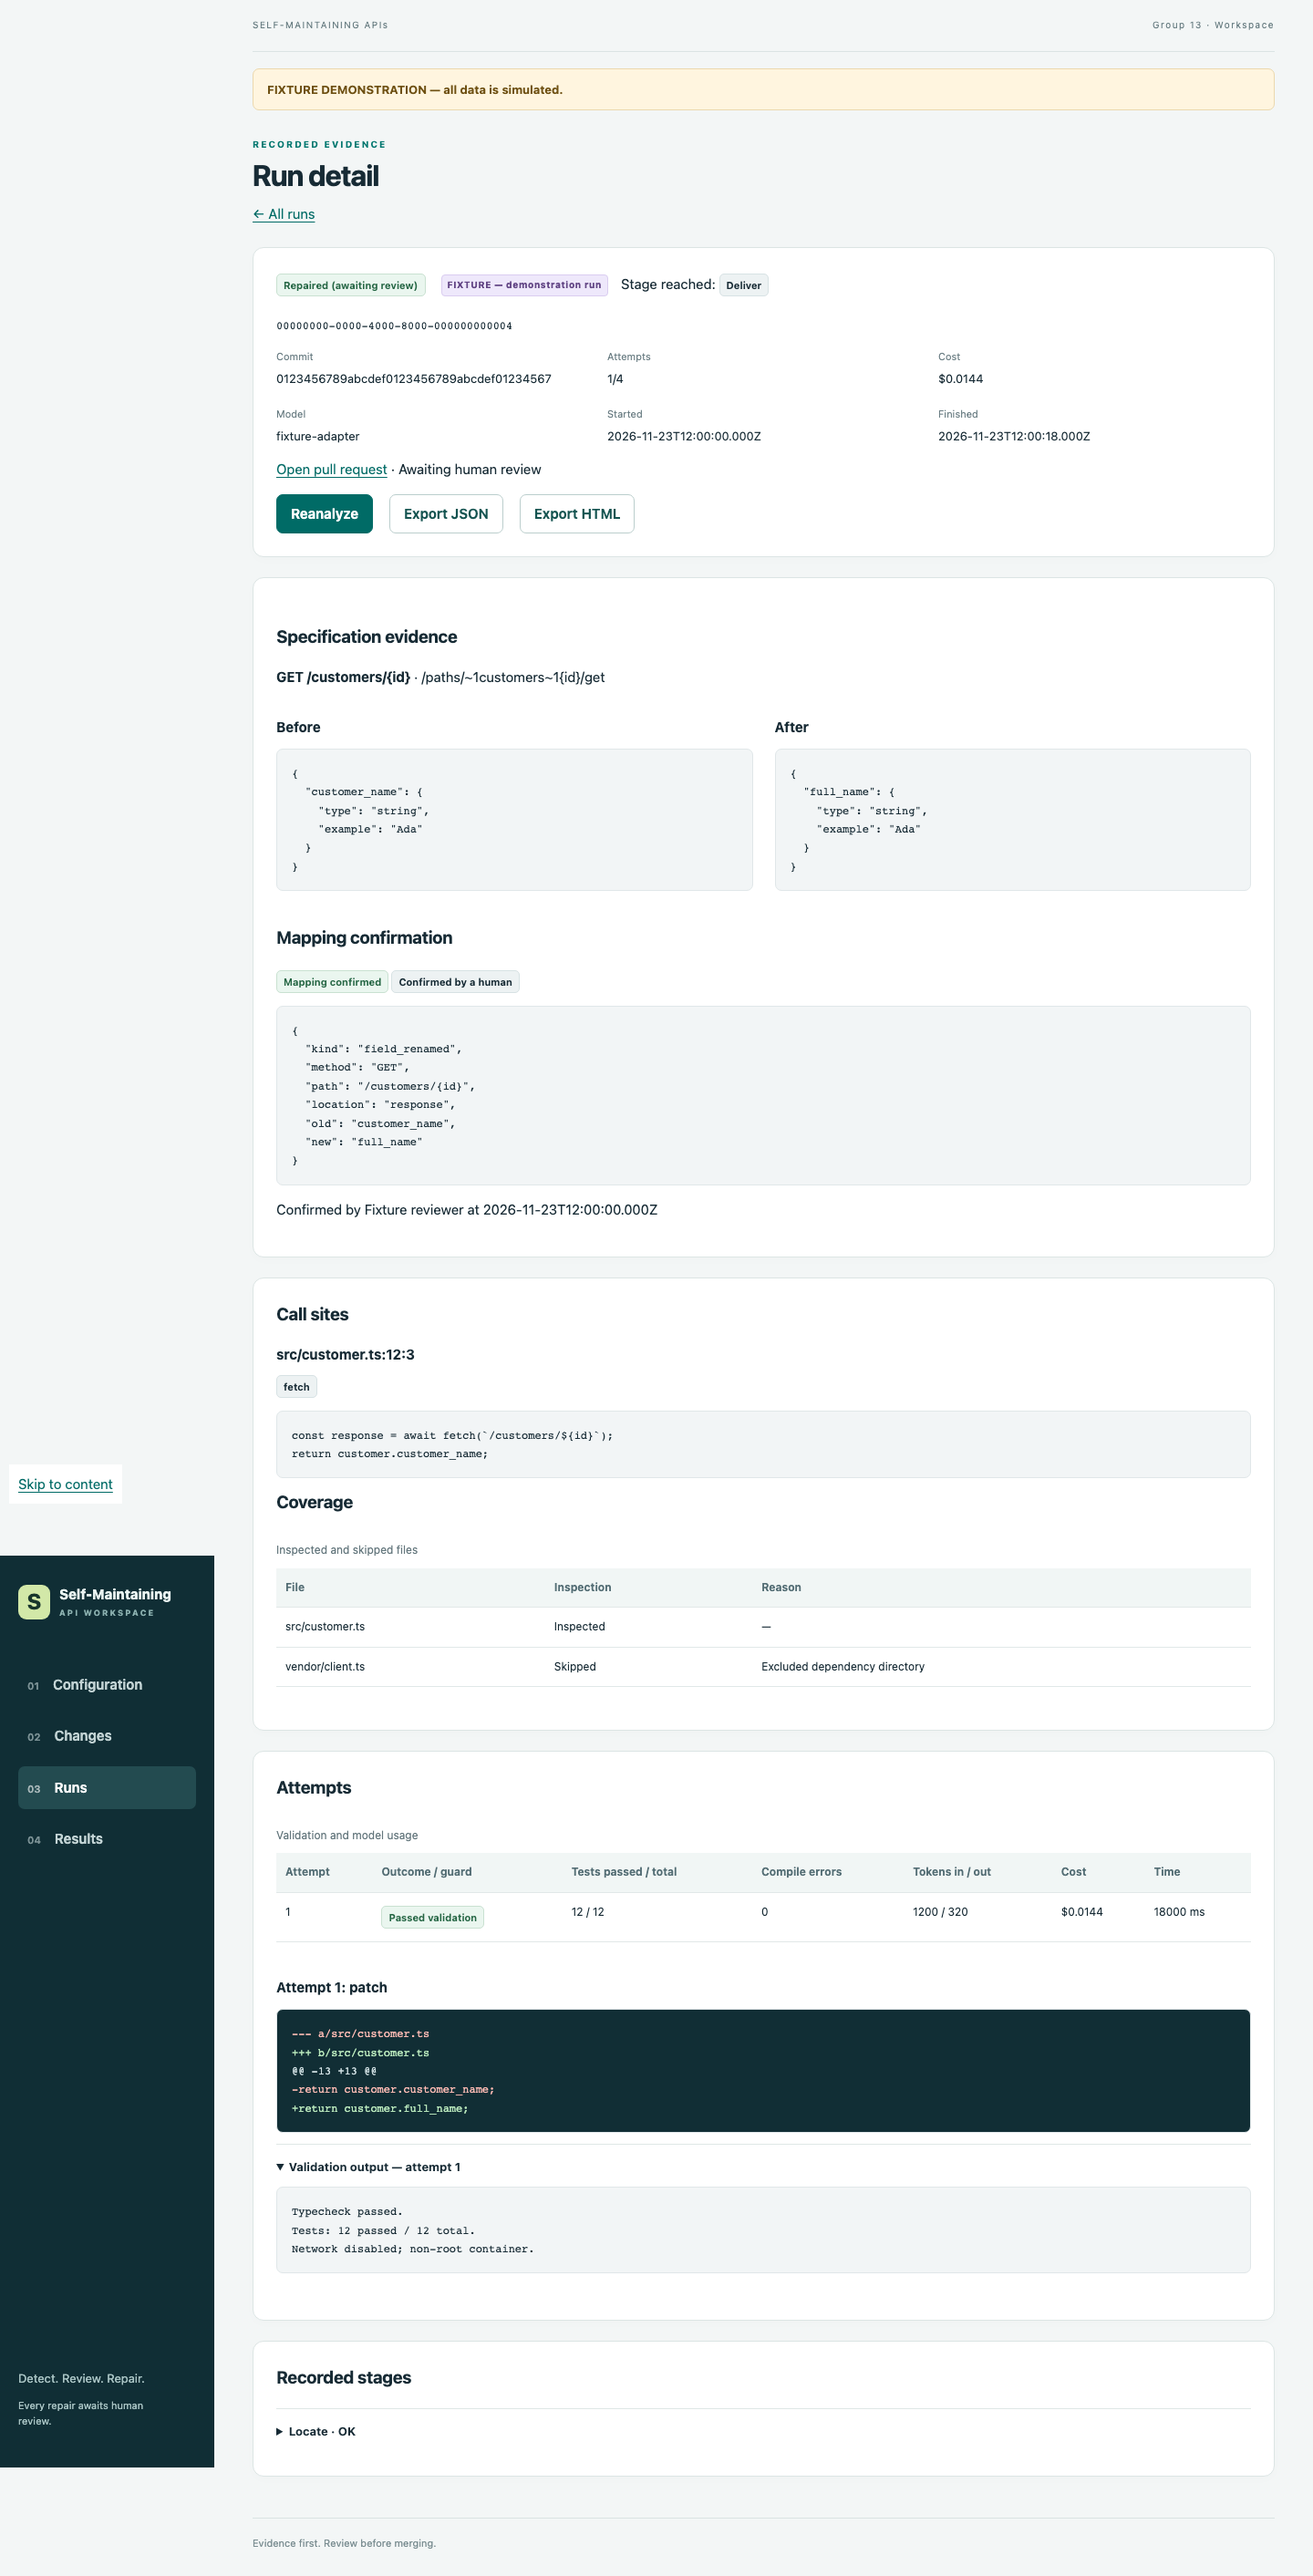
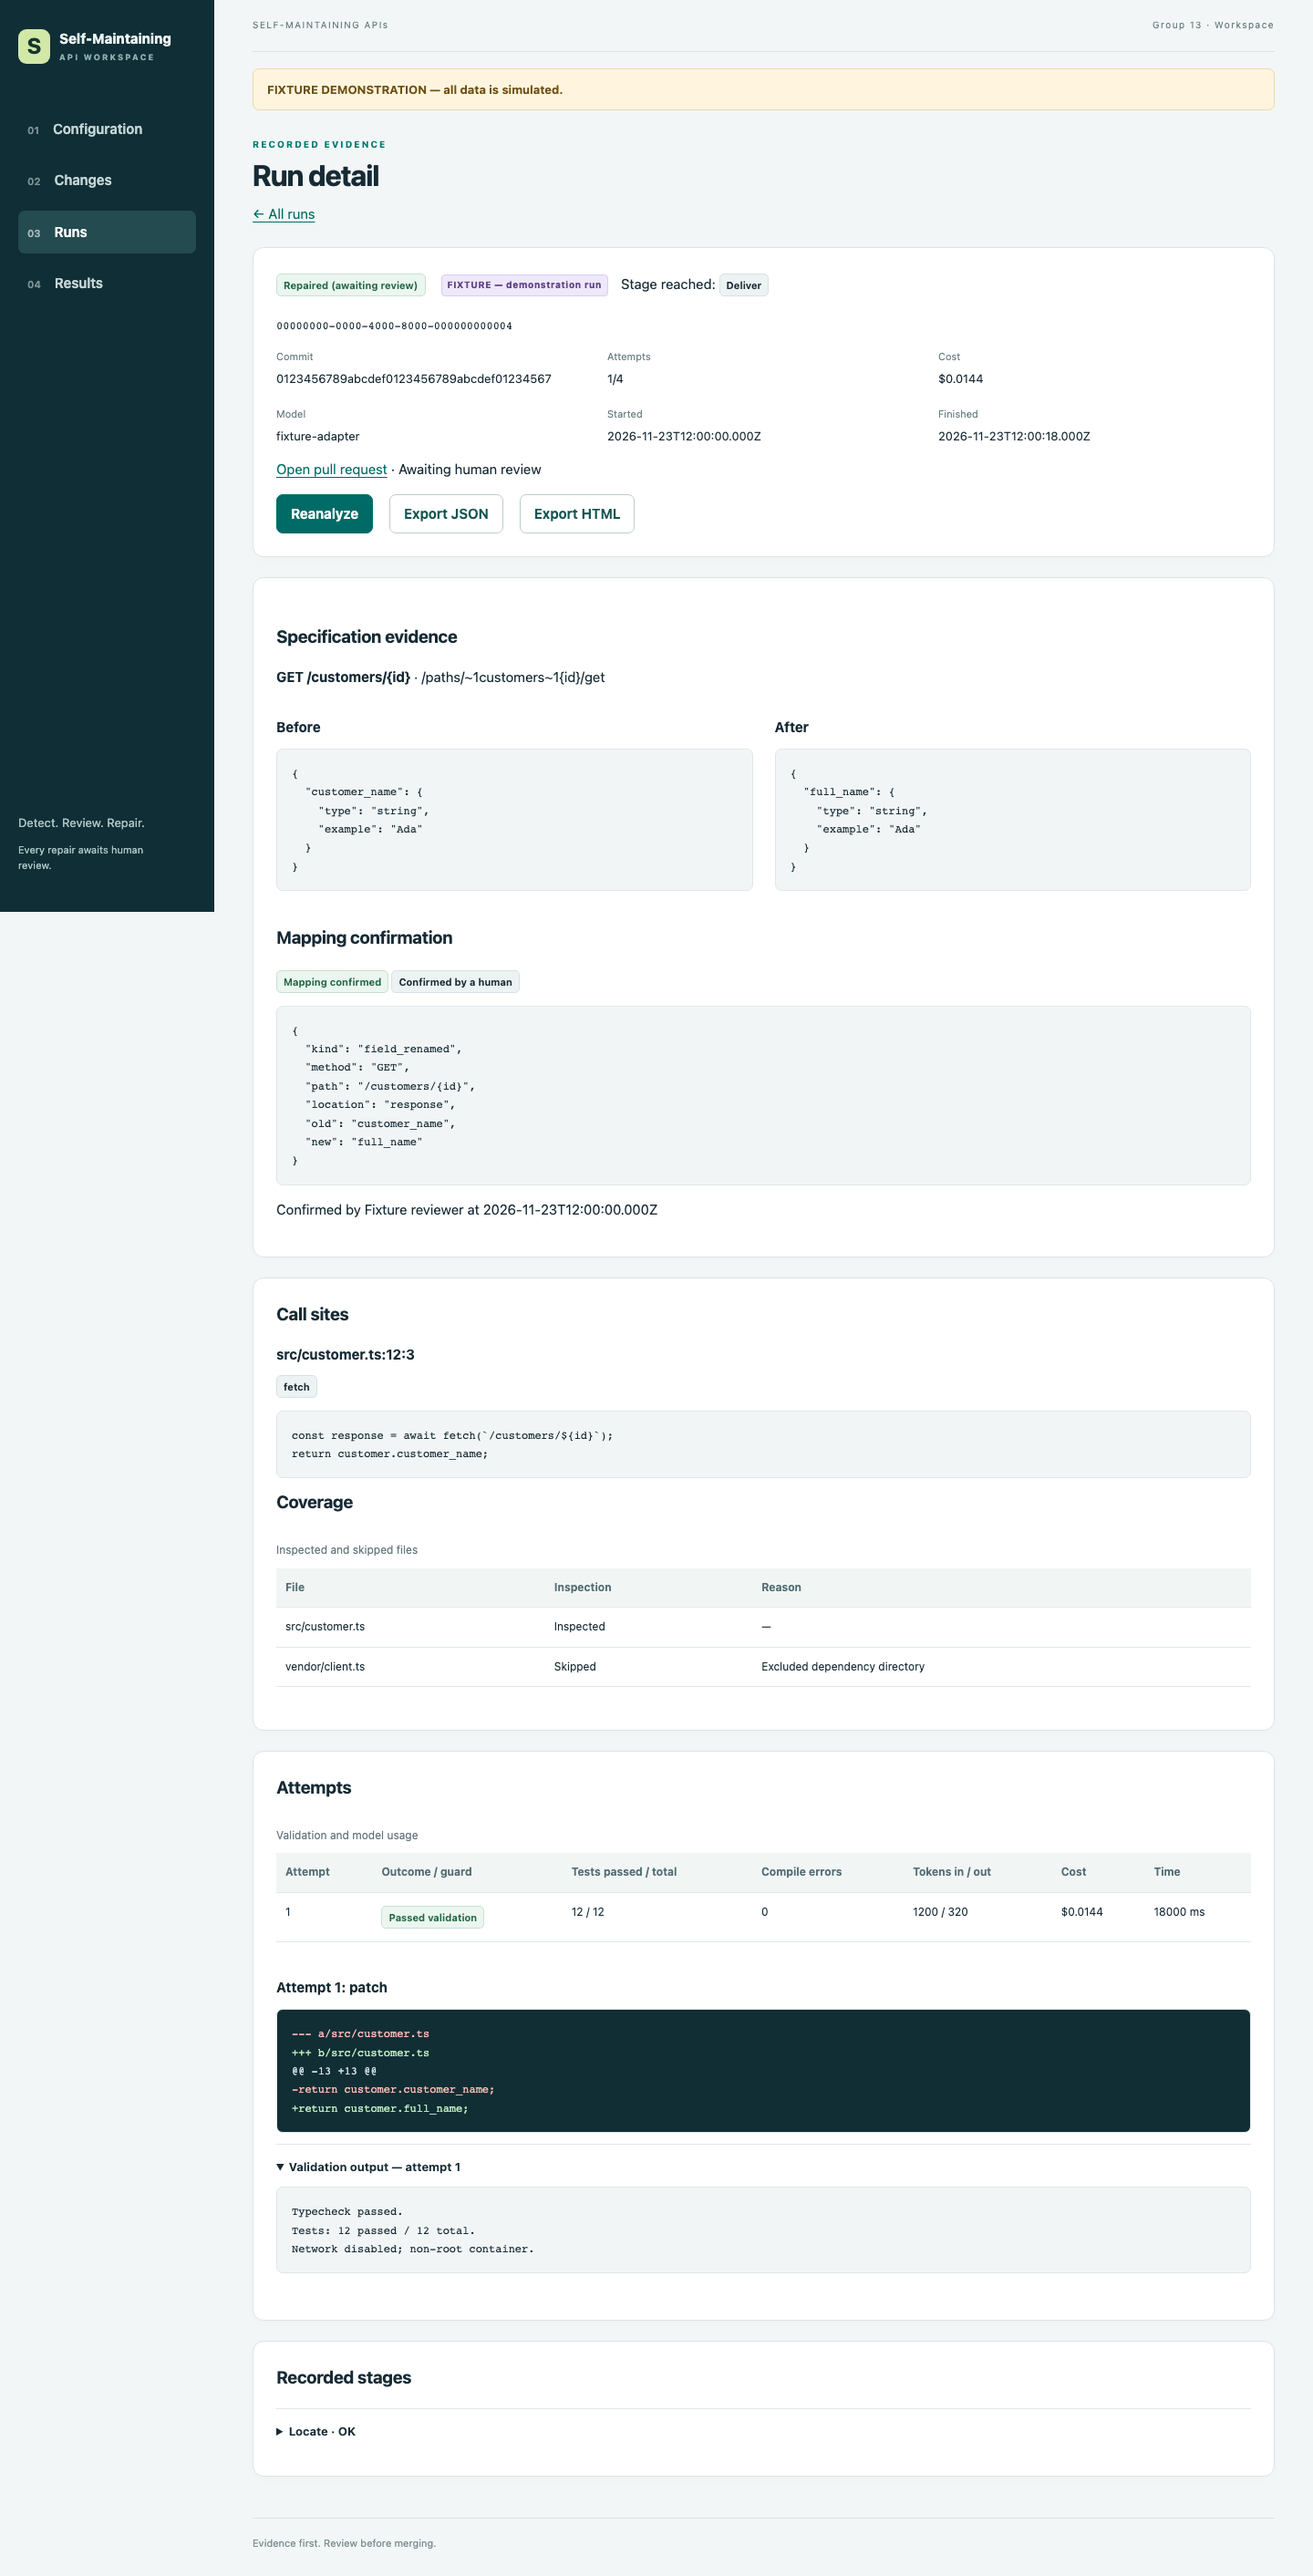
test(web): capture full-page evidence from a consistent scroll position

Changed region(s): [[0.0, 0.5919, 0.1875, 0.9657], [0.0, 0.0, 0.1875, 0.3738]]

diff --git a/apps/web/e2e/dashboard.spec.ts b/apps/web/e2e/dashboard.spec.ts
@@ -13,6 +13,7 @@ test('configuration → changes → confirmation → run → exports → results
     'aria-invalid',
     'true',
   );
+  await page.evaluate(() => window.scrollTo(0, 0));
   await page.screenshot({
     path: resolve(screenshots, '01-configuration-error.png'),
     fullPage: true,
@@ -31,6 +32,7 @@ test('configuration → changes → confirmation → run → exports → results
   });
   await page.getByRole('button', { name: 'Upload spec', exact: true }).click();
   await expect(page.getByText('Baseline established', { exact: true }).first()).toBeVisible();
+  await page.evaluate(() => window.scrollTo(0, 0));
   await page.screenshot({
     path: resolve(screenshots, '02-configuration-baseline.png'),
     fullPage: true,
@@ -47,6 +49,7 @@ test('configuration → changes → confirmation → run → exports → results
   await page.getByRole('link', { name: 'View changes', exact: true }).click();
   await page.getByRole('button', { name: 'View evidence' }).click();
   await expect(page.getByText('Specification evidence')).toBeVisible();
+  await page.evaluate(() => window.scrollTo(0, 0));
   await page.screenshot({ path: resolve(screenshots, '03-changes.png'), fullPage: true });
   await page.getByRole('button', { name: 'Confirm mapping', exact: true }).click();
   await expect(page.getByRole('dialog')).toBeVisible();
@@ -61,6 +64,7 @@ test('configuration → changes → confirmation → run → exports → results
     }),
   );
   await page.getByLabel('Confirmed by').fill('Fixture reviewer');
+  await page.evaluate(() => window.scrollTo(0, 0));
   await page.screenshot({
     path: resolve(screenshots, '04-confirm-mapping-dialog.png'),
     fullPage: true,
@@ -75,6 +79,7 @@ test('configuration → changes → confirmation → run → exports → results
   await expect(page.getByRole('link', { name: 'Open pull request' })).toBeVisible();
   await page.getByText('Validation output — attempt 1', { exact: true }).click();
   await expect(page.getByText(/Network disabled; non-root container/)).toBeVisible();
+  await page.evaluate(() => window.scrollTo(0, 0));
   await page.screenshot({ path: resolve(screenshots, '05-run-detail.png'), fullPage: true });
   for (const format of ['JSON', 'HTML']) {
     const download = page.waitForEvent('download');
@@ -85,12 +90,15 @@ test('configuration → changes → confirmation → run → exports → results
   }
   await page.getByRole('link', { name: '← All runs' }).click();
   await expect(page.getByRole('table', { name: 'Recorded runs' })).toBeVisible();
+  await page.evaluate(() => window.scrollTo(0, 0));
   await page.screenshot({ path: resolve(screenshots, '06-runs.png'), fullPage: true });
   await page.getByRole('link', { name: 'Results' }).click();
   await expect(page.getByRole('heading', { name: 'Failed scenarios' })).toBeVisible();
   await expect(page.getByText(/Excluded: Example/)).toBeVisible();
+  await page.evaluate(() => window.scrollTo(0, 0));
   await page.screenshot({ path: resolve(screenshots, '07-results.png'), fullPage: true });
   await page.setViewportSize({ width: 390, height: 844 });
+  await page.evaluate(() => window.scrollTo(0, 0));
   await page.screenshot({ path: resolve(screenshots, '08-results-mobile.png'), fullPage: true });
   expect(await page.evaluate(() => document.documentElement.scrollWidth <= window.innerWidth)).toBe(
     true,

diff --git a/apps/web/e2e/real.spec.ts b/apps/web/e2e/real.spec.ts
@@ -103,6 +103,7 @@ test('real configuration, detection, safe unconfirmed run and exports', async ({
   expect(report.run.status.value).toBe('flagged');
   expect(report.attempts).toEqual([]);
   expect(report.run.prUrl).toBeNull();
+  await page.evaluate(() => window.scrollTo(0, 0));
   await page.screenshot({
     path: resolve('../../docs/acceptance/screenshots/inc14/09-real-unconfirmed-run.png'),
     fullPage: true,
